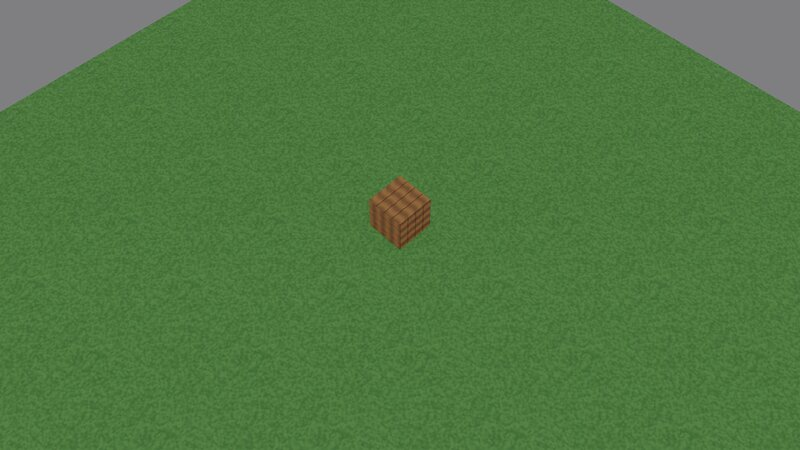
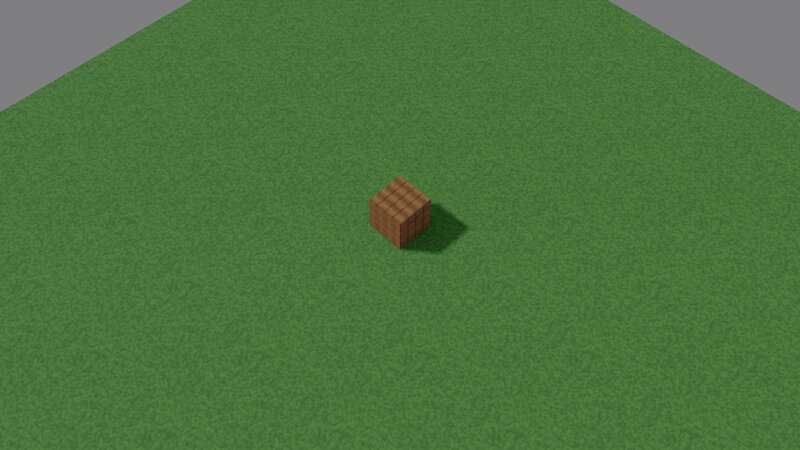
game template: shadow-casting level and a sun the default camera sees
Claude-Session: https://claude.ai/code/session_01EBbA2uxPxjUDa15sZBNnS6

Changed region(s): [[0.5, 0.4356, 0.5938, 0.56]]

diff --git a/samples/game-template/src/main/java/com/example/mygame/MyGame.java b/samples/game-template/src/main/java/com/example/mygame/MyGame.java
@@ -79,7 +79,8 @@ public final class MyGame implements Game {
     public void update(AppContext ctx, float dt, float alpha) {
         renderer.assets().update();
         if (!spawned && scenes.isReady(level)) {
-            world.instantiate(scenes.get(level), 0, 0, 0, 0, RenderPacket.FLAG_STATIC);
+            int flags = RenderPacket.FLAG_STATIC | RenderPacket.FLAG_CASTS_SHADOW;
+            world.instantiate(scenes.get(level), 0, 0, 0, 0, flags);
             world.updateTransforms(ctx.jobs());
             spawned = true;
         }
@@ -110,6 +111,10 @@ public final class MyGame implements Game {
         p.near = camera.near;
         p.far = camera.distance * 2 + 60;
         p.orthographic = camera.orthographic;
+        // Afternoon sun from the camera's left, so shadows fall into view (unit vector).
+        p.sunDirection[0] = 0.55f;
+        p.sunDirection[1] = -0.7f;
+        p.sunDirection[2] = -0.45f;
         if (spawned) {
             world.extract(p);
         }

diff --git a/docs/getting-started.md b/docs/getting-started.md
@@ -188,7 +188,8 @@ public void fixedUpdate(AppContext ctx, float dt) {   // 30 Hz simulation tick
 public void update(AppContext ctx, float dt, float alpha) {   // once per frame
     renderer.assets().update();
     if (!spawned && scenes.isReady(level)) {
-        world.instantiate(scenes.get(level), 0, 0, 0, 0, RenderPacket.FLAG_STATIC);
+        int flags = RenderPacket.FLAG_STATIC | RenderPacket.FLAG_CASTS_SHADOW;
+        world.instantiate(scenes.get(level), 0, 0, 0, 0, flags);
         world.updateTransforms(ctx.jobs());
         spawned = true;
     }
@@ -212,6 +213,9 @@ public void extract(AppContext ctx, int index) {   // fill the frame's render pa
     p.near = camera.near;
     p.far = camera.distance * 2 + 60;
     p.orthographic = camera.orthographic;
+    p.sunDirection[0] = 0.55f;   // the sun's direction, color and shadows live in the packet too
+    p.sunDirection[1] = -0.7f;
+    p.sunDirection[2] = -0.45f;
     if (spawned) {
         world.extract(p);
     }
